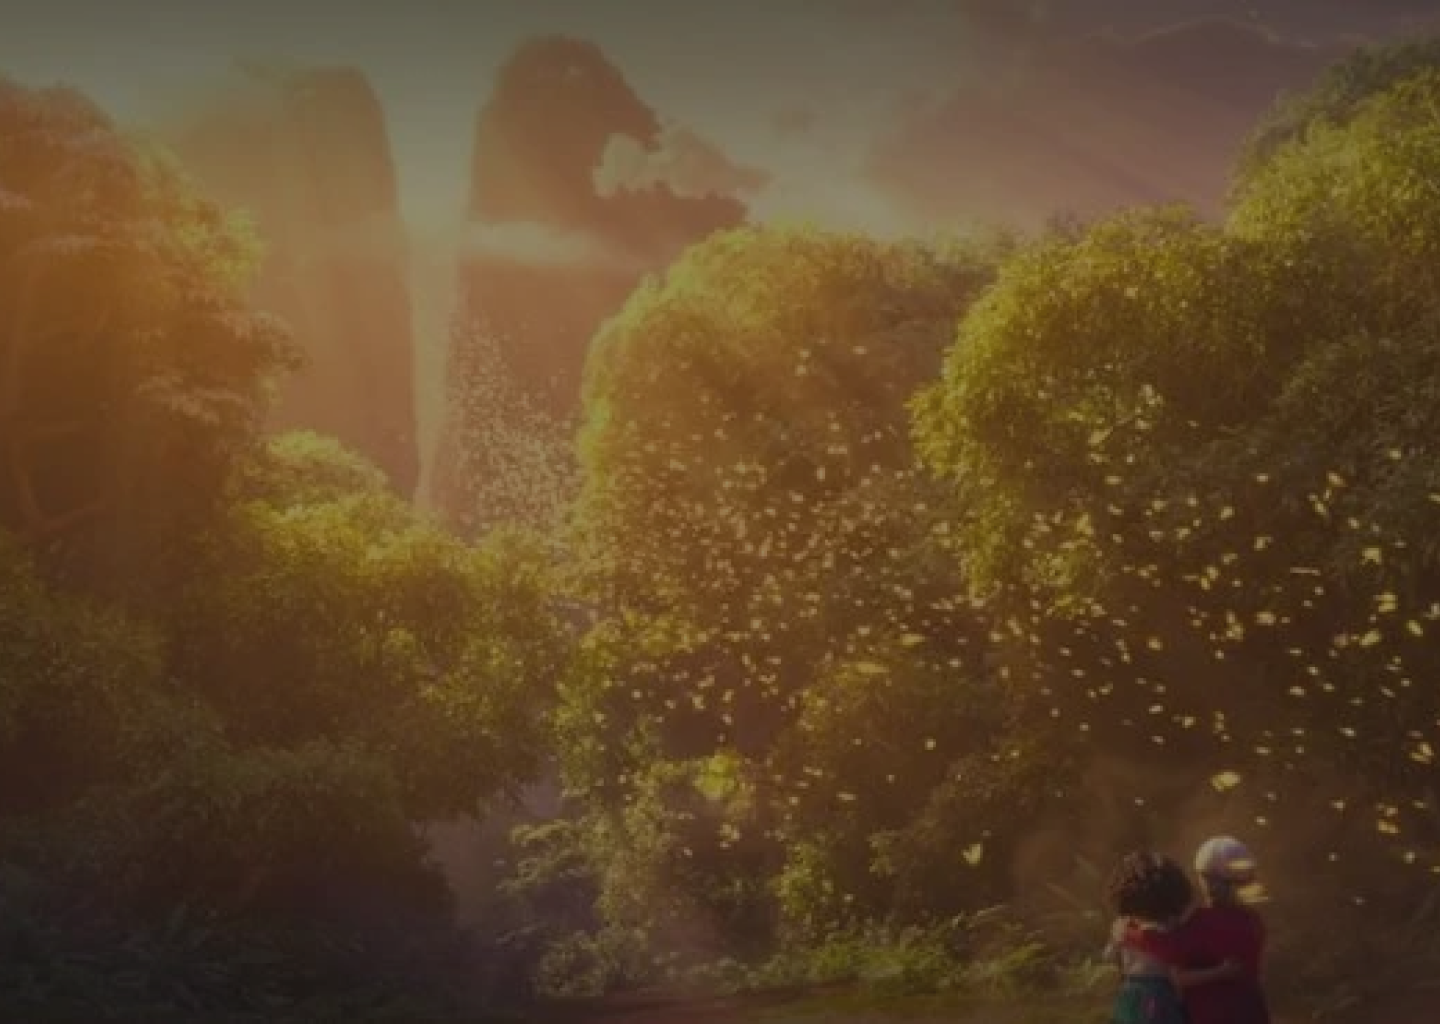
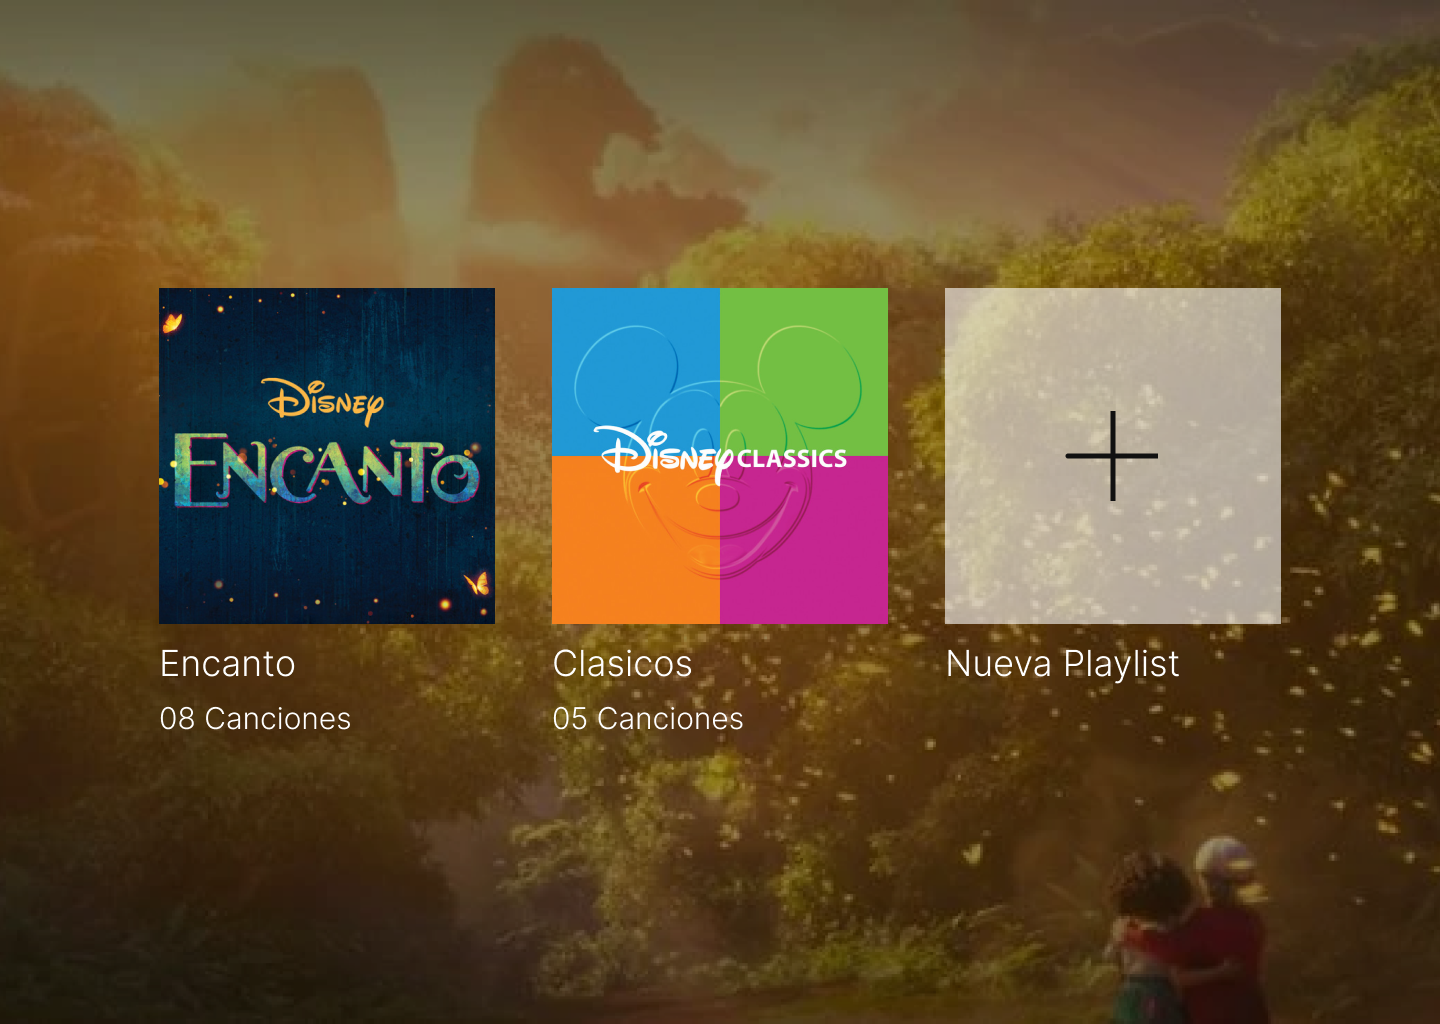
Update

diff --git a/sketch.js b/sketch.js
@@ -1,3 +1,6 @@
+const WIDTH =  1440;
+const HEIGHT = 1025;
+
 const songsData= [
   {
     name: "Gotta Go My Own Way",
@@ -41,6 +44,7 @@ const songsData= [
   }
 ];
 let songFiles = [];
+let app;
 let main;
 let screenInicio;
 let screenPlaylist;
@@ -50,10 +54,10 @@ let screenLista2;
 
 function preload() {
 
-  screenInicio = loadImage ("Imaganes/Inicio.png");
-  screenPlaylist = loadImage ("Imaganes/Playlist.png");
-  screenLista = loadImage ("Imaganes/Lista.png");
-  screenLista2 = loadImage ("Imaganes/Lista_2.png");
+  screenInicio = loadImage ("Imagenes/Inicio.png");
+  screenPlaylist = loadImage ("Imagenes/Playlist.png");
+  screenLista = loadImage ("Imagenes/Lista.png");
+  screenLista2 = loadImage ("Imagenes/Lista_2.png");
 
   songFiles = songsData.map(data => {
     return {
@@ -64,15 +68,18 @@ function preload() {
 }
 
 function setup() {
-  createCanvas(400, 400);
-  main = new Main(songsData, songFiles);
+  screen = 0;
+  createCanvas(WIDTH, HEIGHT);
+  app = new App();
+
+  //main = new Main(songsData, songFiles);
 }
 
 function draw() {
   background(220);
 
-  switch (screen) {
 
+  switch (screen) {
     case 0:
       image (screenInicio,0,0,1440,1024)
       break;
@@ -87,12 +94,29 @@ function draw() {
       break;
     
   }
+  text("x:" + mouseX + " y: " + mouseY, mouseX, mouseY);
 }
 
-function mouseClick() {
-  app.click();
-}
+function mouseClicked() {
+  
+      }
 
-function mousePress() {
-  app.press();
+function mousePressed() {
+  if (screen === 0) {
+    if (mouseX > 112 && mouseX < 486 && mouseY > 654 && mouseY < 744) {
+        screen = 1;
+    }
+  }
+  if (screen === 1) {
+      if (mouseX > 157 && mouseX < 490 && mouseY > 288 && mouseY < 618) {
+        screen = 2;
+      } else if (mouseX > 552 && mouseX < 884 && mouseY > 288 && mouseY < 725) {
+        screen = 3;
+      } }
+      
+      else {
+        if (dist(mouseX, mouseY, 30, 26) < 20) {
+          screen = 1;
+        }  
+  }
 }

diff --git a/App.js b/App.js
@@ -1,0 +1,27 @@
+class App {
+    constructor () {
+        
+    //   this._songs = [];
+    //   this._currentSong = null;
+    //   this._dragging = false;
+    //   songsFiles.forEach(data => {
+    //     this._songs.push(new Song(data));
+     // });
+
+    }
+
+    draw() {
+       
+
+    }
+
+    press() {
+       
+          
+    //     if(this._currentSong !== null && mouseX < width-20 && mouseX > 20 && mouseY < 243 && mouseY > 232) {
+    //       this._dragging = true;
+    //       const currSong = this._songs[this._currentSong];
+    //       currSong.song.jump(map(mouseX, 20, width - 20, 0, currSong.song.duration()));
+    //     }
+       }
+}

diff --git a/index.html b/index.html
@@ -14,5 +14,7 @@
 
   <body>
     <script src="sketch.js"></script>
+    <script src="App.js"></script>
+
   </body>
 </html>
